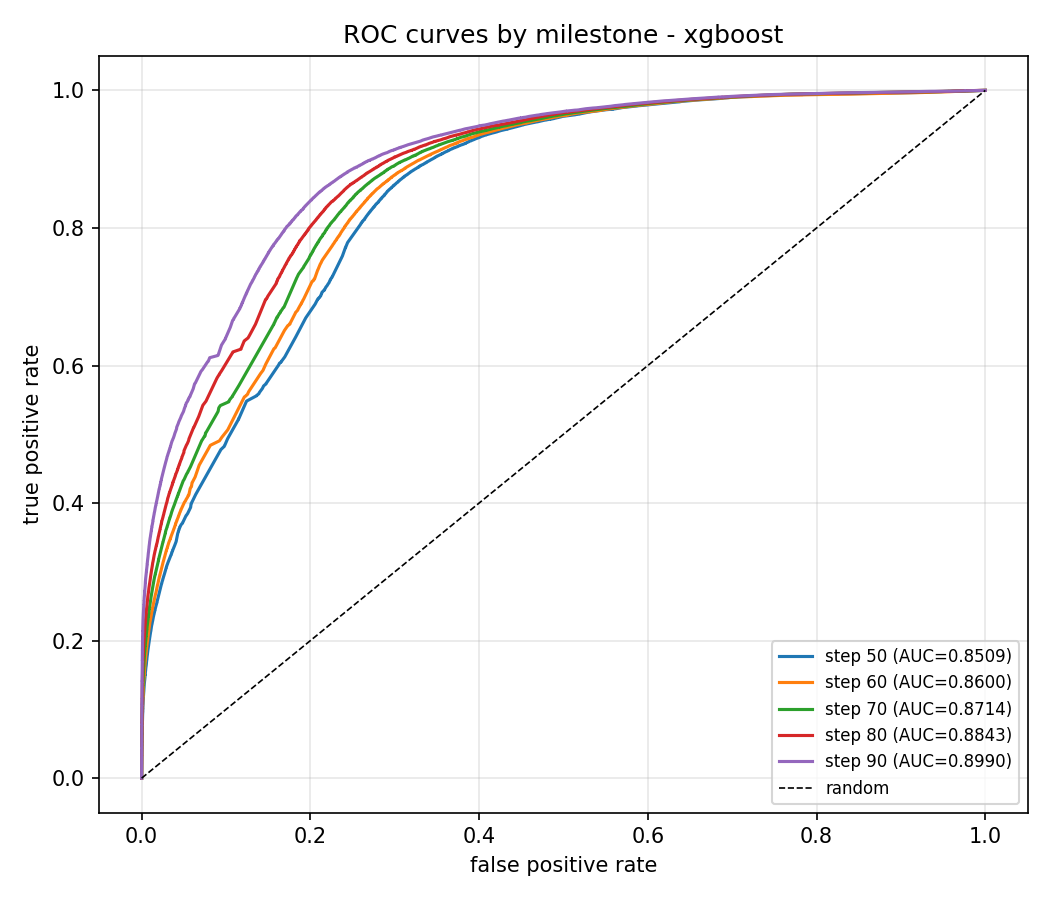
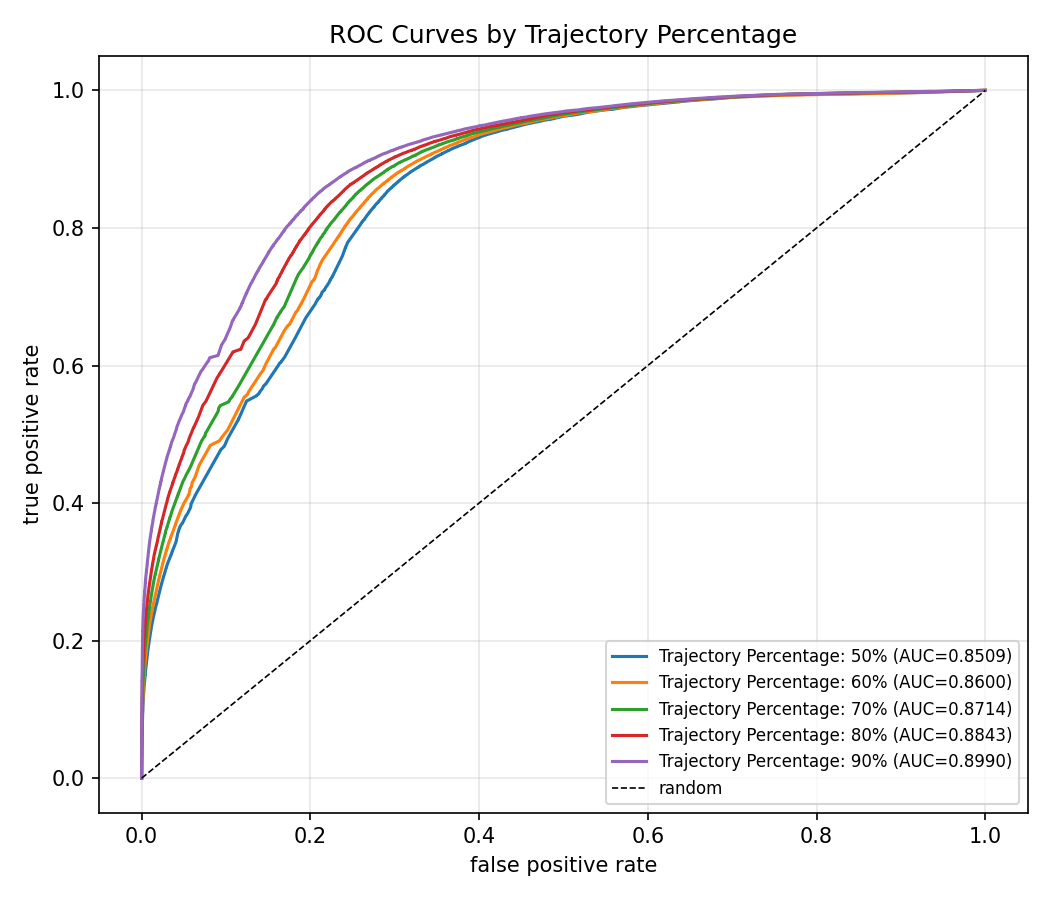
Add data before presentation

Changed region(s): [[0.579, 0.7156, 0.8838, 0.9022], [0.3048, 0.0311, 0.7619, 0.0622], [0.9143, 0.7156, 0.9752, 0.8711]]

diff --git a/scripts/07_train_random_forest.py b/scripts/07_train_random_forest.py
@@ -149,21 +149,21 @@ def main():
     print(f"Targeting dataset: {DATA_PATH}")
     
     # Testing the market at various points of its lifespan
-    milestones = [50, 60, 70, 80, 90]
+    cutoff_percentage = [50, 60, 70, 80, 90]
     milestone_results = []
     
-    for step in milestones:
+    for step in cutoff_percentage:
         milestone_results.append(analyze_step(step))
 
     fig, ax = plt.subplots(figsize=(7, 6))
     for result in milestone_results:
         fpr, tpr, _ = roc_curve(result["y_test"], result["prob"])
-        ax.plot(fpr, tpr, label=f"step {result['step']} (AUC={result['auc']:.4f})", linewidth=1.5)
+        ax.plot(fpr, tpr, label=f"Trajectory Percentage: {result['step']}% (AUC={result['auc']:.4f})", linewidth=1.5)
 
     ax.plot([0, 1], [0, 1], "k--", linewidth=0.8, label="random")
     ax.set_xlabel("false positive rate")
     ax.set_ylabel("true positive rate")
-    ax.set_title("ROC curves by milestone - random forest")
+    ax.set_title("ROC Curves by Trajectory Percentage")
     ax.legend(loc="lower right", fontsize=8)
     ax.grid(True, alpha=0.3)
     fig.tight_layout()

diff --git a/scripts/08_train_xg_boost.py b/scripts/08_train_xg_boost.py
@@ -149,21 +149,21 @@ def main():
     print(f"Targeting dataset: {DATA_PATH}")
     
     # Testing the market at various points of its lifespan
-    milestones = [50, 60, 70, 80, 90]
+    cutoff_percentage = [50, 60, 70, 80, 90]
     milestone_results = []
     
-    for step in milestones:
+    for step in cutoff_percentage:
         milestone_results.append(analyze_step(step))
 
     fig, ax = plt.subplots(figsize=(7, 6))
     for result in milestone_results:
         fpr, tpr, _ = roc_curve(result["y_test"], result["prob"])
-        ax.plot(fpr, tpr, label=f"step {result['step']} (AUC={result['auc']:.4f})", linewidth=1.5)
+        ax.plot(fpr, tpr, label=f"Trajectory Percentage: {result['step']}% (AUC={result['auc']:.4f})", linewidth=1.5)
 
     ax.plot([0, 1], [0, 1], "k--", linewidth=0.8, label="random")
     ax.set_xlabel("false positive rate")
     ax.set_ylabel("true positive rate")
-    ax.set_title("ROC curves by milestone - xgboost")
+    ax.set_title("ROC Curves by Trajectory Percentage")
     ax.legend(loc="lower right", fontsize=8)
     ax.grid(True, alpha=0.3)
     fig.tight_layout()

diff --git a/scripts/06_train_logistic_regression.py b/scripts/06_train_logistic_regression.py
@@ -164,12 +164,12 @@ def main():
     fig, ax = plt.subplots(figsize=(7, 6))
     for result in milestone_results:
         fpr, tpr, _ = roc_curve(result["y_test"], result["prob"])
-        ax.plot(fpr, tpr, label=f"step {result['step']} (AUC={result['auc']:.4f})", linewidth=1.5)
+        ax.plot(fpr, tpr, label=f"Trajectory Percentage: {result['step']}% (AUC={result['auc']:.4f})", linewidth=1.5)
 
     ax.plot([0, 1], [0, 1], "k--", linewidth=0.8, label="random")
     ax.set_xlabel("false positive rate")
     ax.set_ylabel("true positive rate")
-    ax.set_title("ROC curves by milestone")
+    ax.set_title("ROC Curves by Trajectory Percentage")
     ax.legend(loc="lower right", fontsize=8)
     ax.grid(True, alpha=0.3)
     fig.tight_layout()
